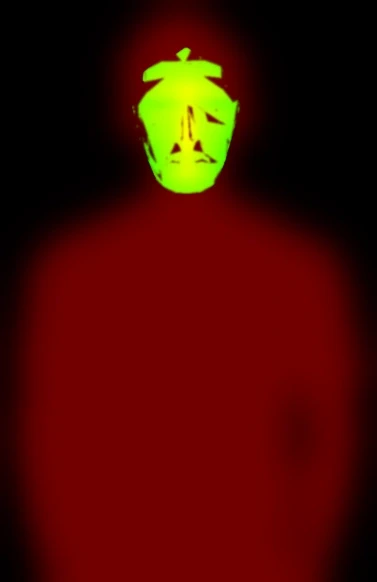
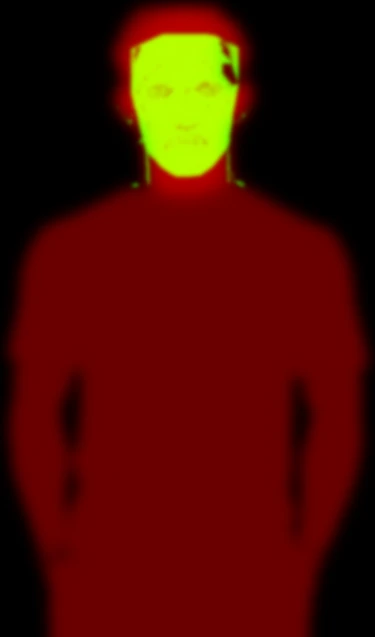
Hero: switch the model to the cartoon trader; reveal shows a lime PAYLOT kit
Background cut out, lanyard recoloured to lime with third-party logos removed, card reads PAYLOT $14.

Claude-Session: https://claude.ai/code/session_012cec7NEVhy4qqBC1Pf6D8n

Changed region(s): [[0.0, 0.0, 1.0, 1.0], [0.1467, 0.5567, 0.2347, 0.8041], [0.7627, 0.5876, 0.8507, 0.8351]]

diff --git a/index.html b/index.html
@@ -11,7 +11,7 @@
   <link rel="preconnect" href="https://fonts.googleapis.com">
   <link rel="preconnect" href="https://fonts.gstatic.com" crossorigin>
   <link rel="stylesheet" href="https://fonts.googleapis.com/css2?family=Anton&family=Inter:wght@400;500;600&display=swap">
-  <link rel="stylesheet" href="css/style.css?v=20261113e">
+  <link rel="stylesheet" href="css/style.css?v=20261114a">
   <link rel="preload" as="image" href="assets/model-base.webp" fetchpriority="high">
   <!-- Critical preloader styles live here so a stale cached stylesheet can never show it unstyled -->
   <style>
@@ -117,7 +117,7 @@
 
       <!-- The model is drawn over this box with WebGL. The image is the no-WebGL fallback. -->
       <div class="hero__figure" data-figure-anchor>
-        <img class="figure-static" src="assets/model-mask.webp" alt="" width="755" height="1165">
+        <img class="figure-static" src="assets/model-base.webp" alt="" width="750" height="1275">
         <button class="hero__flip" type="button" aria-pressed="false" data-flip hidden>
           <span class="hero__flip-icon" aria-hidden="true"></span><span class="hero__flip-label">Tap to reveal</span>
         </button>
@@ -213,6 +213,6 @@
     <a class="btn btn--primary" data-telegram href="#" target="_blank" rel="noopener" tabindex="-1">Join on Telegram</a>
   </div>
 
-  <script type="module" src="js/main.js?v=20261113e"></script>
+  <script type="module" src="js/main.js?v=20261114a"></script>
 </body>
 </html>

diff --git a/js/model.js b/js/model.js
@@ -1,15 +1,15 @@
-// PAYLOT hero model — "behind the mask" liquid reveal.
+// PAYLOT hero model (cartoon) — liquid reveal.
 // One full-screen WebGL quad draws the model photo into the hero figure box:
-//   base layer  : model with a soft-focus face
-//   reveal layer: the same model wearing the black faceted mask
+//   base layer  : the cartoon trader in a black kit
+//   reveal layer: the same trader in a lime PAYLOT kit (lime mask + shirt)
 // A liquid blob follows the finger / cursor and leaves a fading trail; where the
-// blob is, the mask layer shows through. A depth map adds a slight 3D tilt.
+// blob is, the lime layer shows through. A depth map adds a slight 3D tilt.
 // When nobody is touching, the blob drifts around the face on its own.
 
 const LIME = [184 / 255, 1, 46 / 255];
 const SRC = { L0: 'assets/model-base.webp', L1: 'assets/model-mask.webp', D: 'assets/model-depth.webp' };
-const IW = 755, IH = 1165;               // source image size (all layers share it)
-const FACE = [375 / IW, 240 / IH];       // face centre in image space
+const IW = 750, IH = 1275;               // source image size (all layers share it)
+const FACE = [369 / IW, 213 / IH];       // face centre in image space
 
 const VS = 'attribute vec2 p;void main(){gl_Position=vec4(p,0.,1.);}';
 const FS = `precision highp float;

diff --git a/js/main.js b/js/main.js
@@ -1,4 +1,4 @@
-import { TELEGRAM_URL, REBATE_PER_LOT } from './config.js?v=20261113e';
+import { TELEGRAM_URL, REBATE_PER_LOT } from './config.js?v=20261114a';
 
 const root = document.documentElement;
 const { gsap, ScrollTrigger, SplitText, Lenis } = window;
@@ -309,7 +309,7 @@ async function loadFigure() {
   if (!webglAvailable()) return debugNote('static: no WebGL');
   if (lowTier && !forceCoin) return debugNote('static: low-tier device');
   try {
-    const { initModel } = await import('./model.js?v=20261113e');
+    const { initModel } = await import('./model.js?v=20261114a');
     figure = await initModel({
       canvas,
       anchor: document.querySelector('[data-figure-anchor]'),

diff --git a/css/style.css b/css/style.css
@@ -450,7 +450,7 @@ main { position: relative; }
   z-index: 1;
   align-self: center;
   width: min(96vw, 50svh, 480px);
-  aspect-ratio: 755 / 1165;
+  aspect-ratio: 750 / 1275;
   margin-top: -52%;
   margin-bottom: -26%;
   pointer-events: none;
